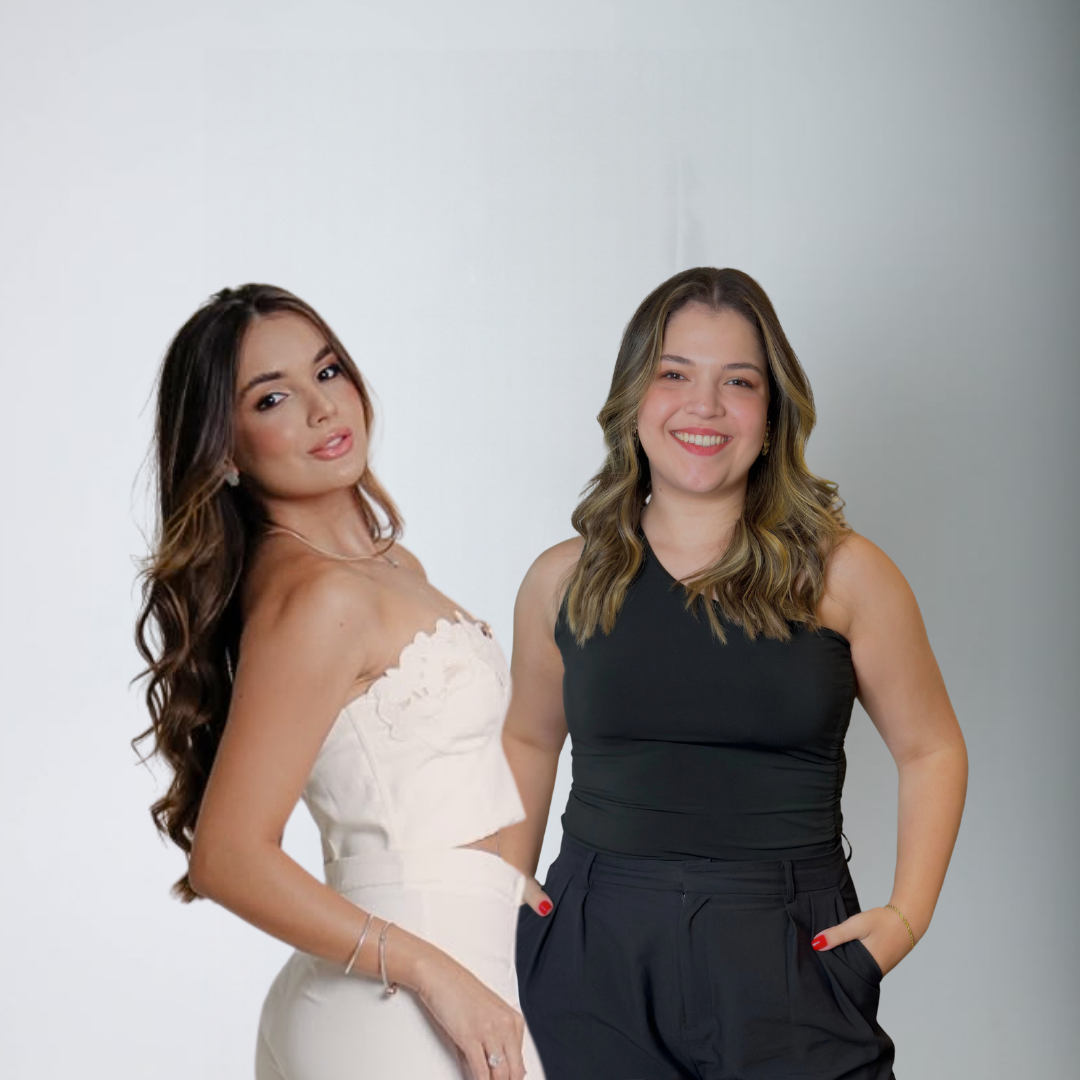
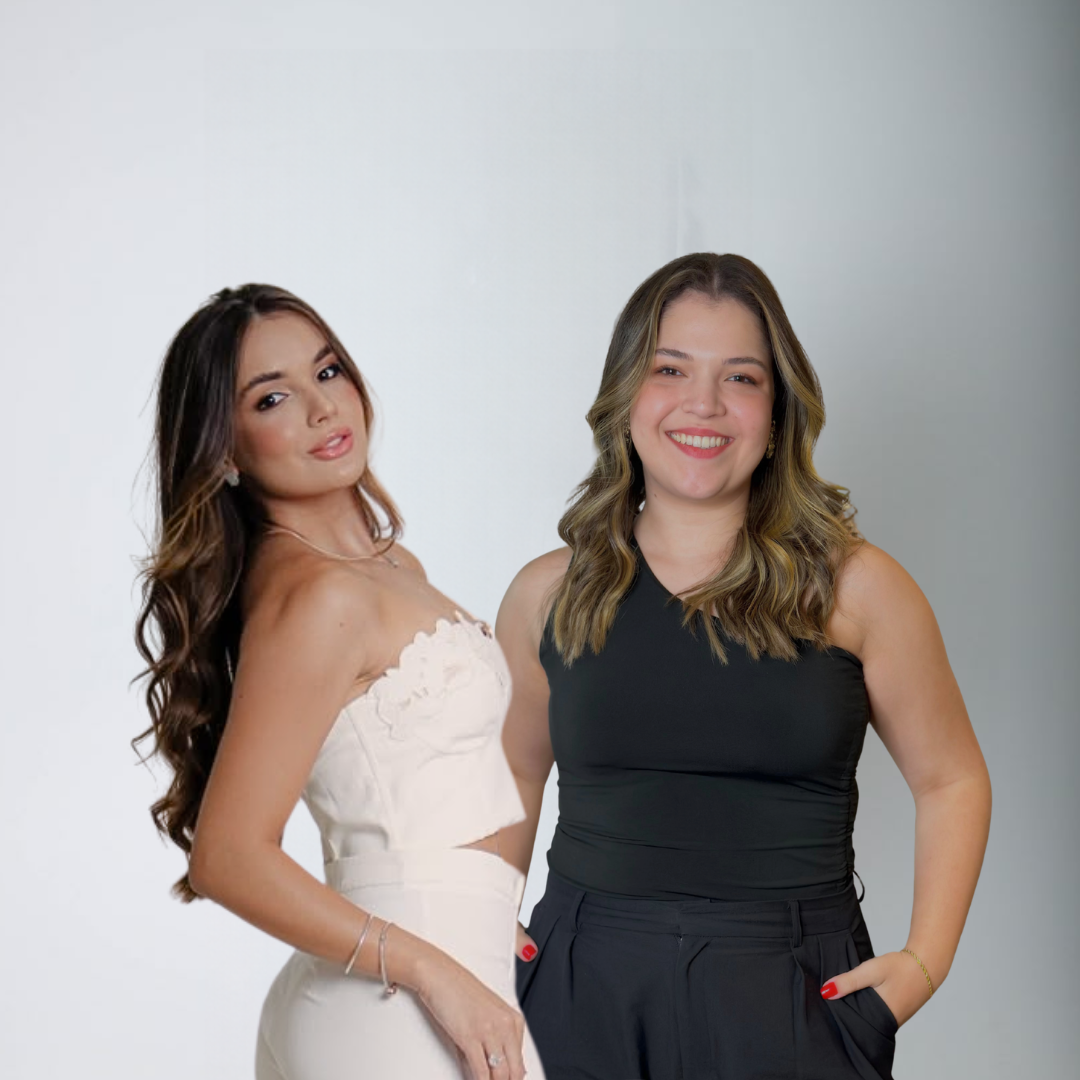
feat: add landing page for Laser Day event with schedule, services, and booking options

Changed region(s): [[0.4583, 0.2139, 0.9167, 1.0], [0.5806, 0.9167, 0.6417, 1.0]]

diff --git a/laser/index.html b/laser/index.html
@@ -2845,7 +2845,7 @@
           individual para a sua pele. Você está em boas mãos.</p>
         <div class="pro-merged reveal">
           <div class="pro-merged__media">
-            <img src="especialistas.png" alt="Dra. Carolina Martins e Júlia Franco, especialistas do Laser Day"
+            <img src="especialistas.png" alt="Dra. Carolina Martins e Dra. Júlia Franco, especialistas do Laser Day"
               width="1464" height="900" loading="lazy" decoding="async" />
           </div>
           <div class="pro-merged__content">
@@ -2886,12 +2886,15 @@
           </details>
           <details class="faq__item">
             <summary class="faq__question">Posso pagar parcelado?</summary>
-            <div class="faq__answer">Sim! Ao fechar o protocolo com <strong>3 sessões</strong>, você consegue parcelar em
-              <strong>3x sem juros</strong>.</div>
+            <div class="faq__answer">Sim! Ao fechar o protocolo com <strong>3 sessões</strong>, você consegue parcelar
+              em
+              <strong>3x sem juros</strong>.
+            </div>
           </details>
           <details class="faq__item">
             <summary class="faq__question">Quais são as contraindicações?</summary>
-            <div class="faq__answer">Por segurança, o tratamento não é indicado em casos como: gestante e lactante; uso de
+            <div class="faq__answer">Por segurança, o tratamento não é indicado em casos como: gestante e lactante; uso
+              de
               roacutan (nos últimos 6 meses) ou outro medicamento fotossensibilizante; herpes ativa; rosácea; lesão ou
               cicatriz na região; lúpus; vitiligo/psoríase; neoplasias (sem autorização médica); epilepsia; doença
               imunossupressora; doenças hemorrágicas ou uso de anticoagulantes; alergia, ferida aberta ou infecciosa. Na
